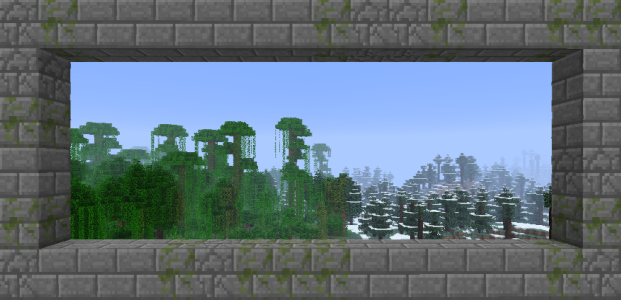
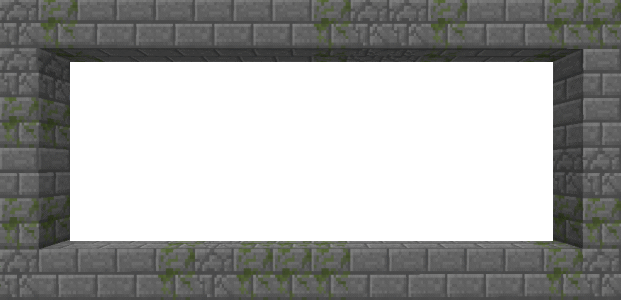
some minor ui tweaks removed the white background from the login page config setting $config['iConomy']['use'] can now be boolean or string
git-svn-id: http://webauctionplus.googlecode.com/svn/trunk@165 c41ed8a6-1c15-8a3d-a996-777bd911872f

diff --git a/www/WebInterface/html/default/login.css b/www/WebInterface/html/default/login.css
@@ -1,3 +1,7 @@
+body, html{
+  height: 99%;
+}
+
 #login-box {
   position: relative;
   margin-left: auto;
@@ -10,6 +14,8 @@
   position: absolute;
   width:  621px;
   height: 300px;
+  background-color: rgb (139,180,255);
+  background-color: rgba(139,180,255,0.6);
 }
 
 #login-background img {
@@ -25,9 +31,8 @@
   margin-right: auto;
   width: 400px;
   top:   70px;
-  background-color: rgb (139,180,255);
-  background-color: rgba(139,180,255,0.5);
 }
 #login-table td {
   color: #FFFFFF;
+  text-shadow: 0.1em 0.1em #222222;
 }

diff --git a/www/WebInterface/html/default/main.css b/www/WebInterface/html/default/main.css
@@ -5,7 +5,7 @@ body{
   background-image:      url('{path=images}wa_bg.jpg');
   background-repeat:     no-repeat;
   background-attachment: fixed;
-  background-position:   top; 
+  background-position:   top;
 }
 
 a:link{
@@ -96,7 +96,7 @@ a:visited{
   background-color: #EBEDFF;
 }
 
-.input {
+.input, button {
   padding-left:   10px;
   padding-right:  10px;
   padding-top:    5px;

diff --git a/www/WebInterface/html/default/footer.php b/www/WebInterface/html/default/footer.php
@@ -4,11 +4,22 @@ $output='';
 
 
 //<div class="spacer"></div>
-$output.="<br /><br /><br /><br /><br /><br /></div>\n";
-//switch($html->getPageFrame()){
-//case 'default':
-//case 'basic':
+$output.="\n\n\n".'
+<br /><br /><br /><br /><br /><br />
+';
+switch($html->getPageFrame()){
+case 'default':
   $output.='
+</div>
+';
+break;
+case 'basic':
+  $output.='
+</td></tr>
+<tr><td style="height: 1px;">
+';
+}
+$output.='
 <div id="footer" class="clear" style="text-align:center; padding:10px">
   <!-- Paste advert code here -->
 
@@ -21,16 +32,21 @@ $output.="<br /><br /><br /><br /><br /><br /></div>\n";
     '<b>&nbsp;Rendered page in '.GetRenderTime().' Seconds with '.((int)@$num_queries).' Queries&nbsp;</b></p>
   <p style="font-size: smaller; color: #FFFFFF;">'.
     '<a href="http://validator.w3.org/#validate_by_input" target="_blank">'.
-    '<img src="images/valid-xhtml10.png" alt="Valid XHTML 1.0 Transitional" width="88" height="31" style="border-width: 0px;" /></a></p>
+    '<img src="'.$config['paths']['http']['static'].'/valid-xhtml10.png" alt="Valid XHTML 1.0 Transitional" width="88" height="31" style="border-width: 0px;" /></a></p>
 </div>
 ';
-//  break;
-//}
+switch($html->getPageFrame()){
+case 'basic':
+  $output.='
+</td></tr>
+</table>
+';
+}
 $output.='
 </body>
 </html>
 ';
 
 
-return("\n\n\n".$output);
+return($output);
 ?>

diff --git a/www/WebInterface/html/default/header.php b/www/WebInterface/html/default/header.php
@@ -27,12 +27,12 @@ $output.='
 {AddToHeader}
 </head>
 <body>
-<div id="holder">
 ';
 
 switch($html->getPageFrame()){
 case 'default':
   $output.='
+<div id="holder">
 <table border="0" cellspacing="0" cellpadding="0" id="profile-box">
 <tr>
   <td rowspan="4"><img src="http://minotar.net/avatar/'.$user->getName().'" alt="" width="64" height="64" id="mcface" /></td>
@@ -59,16 +59,17 @@ case 'default':
 
 </div>
 <div id="title-box">
-  <h1>{site title}</h1>
+  <h1 style="margin-bottom: 10px; text-align: center; font-family: Arial;">WebAuction<sup>Plus</sup></h1>
   <h2>{page title}</h2>
 </div>
 ';
   break;
 case 'basic':
   $output.='
-<h1 style="margin-bottom: 30px; text-align: center;">WebAuction Plus</h1>
+<table border="0" cellspacing="0" cellpadding="0" align="center" style="width: 100%; height: 100%;">
+<tr><td style="height: 1px;"><h1 style="margin-bottom: 30px; text-align: center; font-family: Arial; font-size: 45px;">WebAuction<sup>Plus</sup></h1></td></tr>
+<tr><td>
 ';
-  break;
 }
 
 

diff --git a/www/WebInterface/inc/classes/user.class.php b/www/WebInterface/inc/classes/user.class.php
@@ -61,7 +61,9 @@ function __construct($username=NULL, $password=NULL){global $config;
     exit();
   }
   // use iconomy table
-  if ($config['iConomy']['use']===TRUE || $config['iConomy']['use']==='auto'){
+  if($config['iConomy']['use']!=='auto')
+    $config['iConomy']['use'] = toBoolean($config['iConomy']['use']);
+  if($config['iConomy']['use']===TRUE || $config['iConomy']['use']==='auto'){
     global $db;
     $result = mysql_query("SELECT `balance` FROM `".mysql_san($config['iConomy']['table'])."` WHERE ".
                           "LOWER(`username`)='".mysql_san(strtolower($this->Name))."' LIMIT 1", $db);
